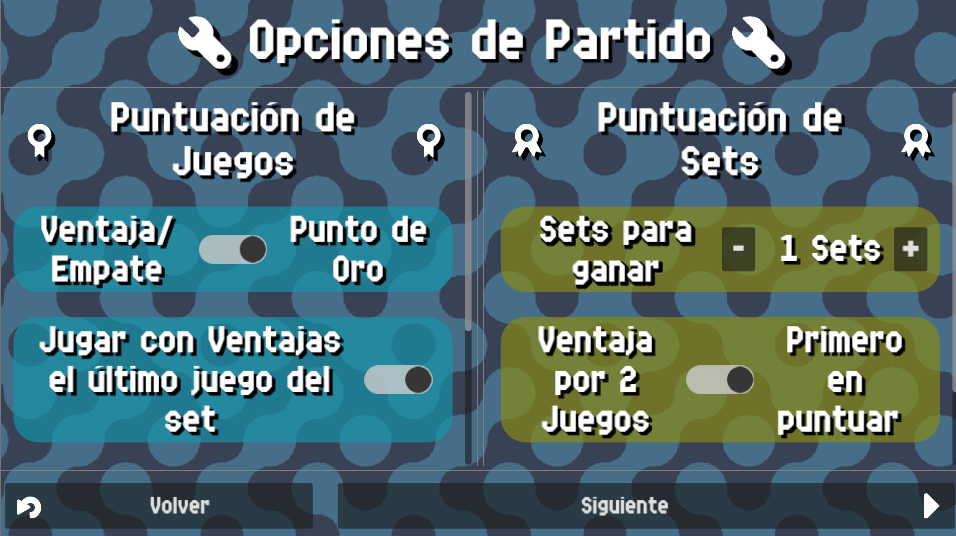
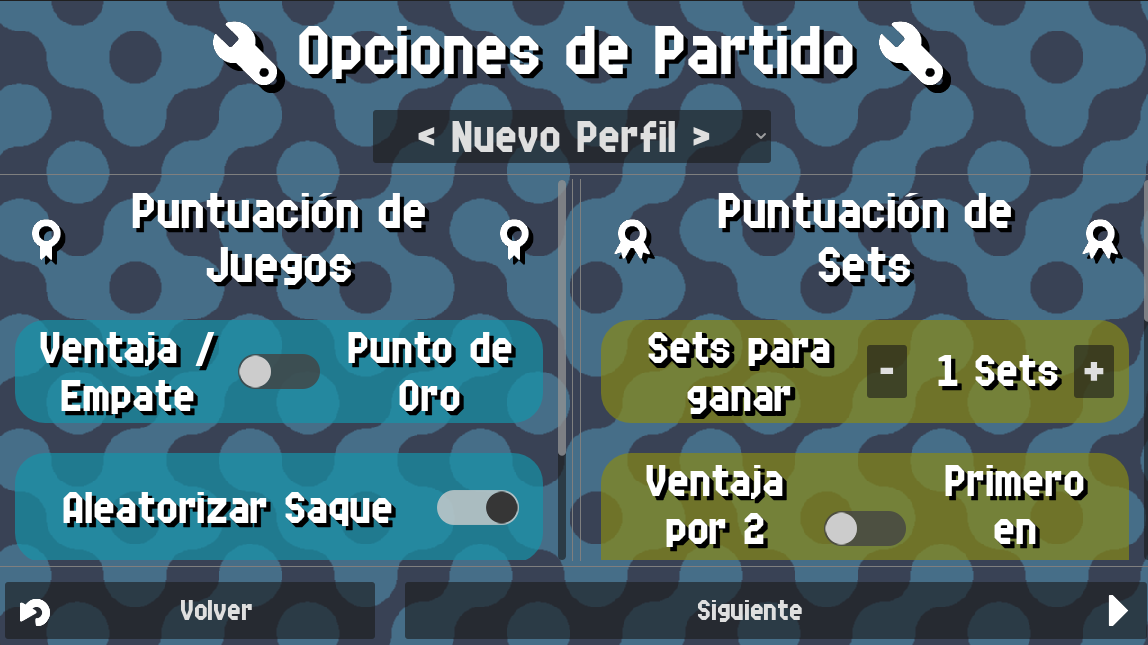
Updated to 1.5.0

diff --git a/docs/index.md b/docs/index.md
@@ -14,11 +14,17 @@ Puedes **cambiar de idioma** en el selector de idioma (language) en **la barra d
 - [Ajustes](./settings/index.md)
 - [Ayuda/Informar de un problema](./help.md)
 
+## Actualizaciones futuras
+
+En este enlace se encuentra [el tablero de Trello](https://trello.com/b/eJKpHkLC/padel-counter-roadmap) (en inglés) en el que podrás ver lo que se viene en futuras actualizaciones de la app!
+
 ## Apoya el proyecto
 
 Contador Pádel es una aplicación gratuita, pero si quieres apoyar el proyecto de alguna forma, puedes donar la cantidad que quieras en mi perfil de Ko-Fi.
 
 [Clic aquí para ir a mi perfil de Ko-Fi.](https://ko-fi.com/rabidrabid)
+
+[¡También puedes donar por PayPal si lo prefieres!](https://www.paypal.com/donate/?hosted_button_id=XEDL2KNTM34SE&locale.x=es_ES)
 
 ## Créditos
 
@@ -32,9 +38,9 @@ Contador Pádel es una aplicación gratuita, pero si quieres apoyar el proyecto 
 - [Shader de fondo en movimiento](https://www.youtube.com/watch?v=cObwzagwgmA) - hecho por [Bacon and Games](https://www.youtube.com/@baconandgames)
 - [Shader de llamas](https://www.youtube.com/watch?v=sCIr_58NN48) - hecho por [Heartbeast](https://www.youtube.com/@uheartbeast)
 - Para los sonidos extra de ejemplo se usaron los siguientes sonidos:
-    - [Video Game Cheerful Ending](https://opengameart.org/content/video-game-cheerful-ending)
-    - [Fireworks With Applause Happy People](https://opengameart.org/content/fireworks-with-applause-happy-people)
-    - [Pure Aluminum Warfare Bunker Day 28](https://opengameart.org/content/pure-aluminum-warfare-bunker-day-28)
-    - [Stick to it Day 17](https://opengameart.org/content/stick-to-it-day-17)
-    - [Kenney Music Jingles](https://kenney.nl/assets/music-jingles)
+  - [Video Game Cheerful Ending](https://opengameart.org/content/video-game-cheerful-ending)
+  - [Fireworks With Applause Happy People](https://opengameart.org/content/fireworks-with-applause-happy-people)
+  - [Pure Aluminum Warfare Bunker Day 28](https://opengameart.org/content/pure-aluminum-warfare-bunker-day-28)
+  - [Stick to it Day 17](https://opengameart.org/content/stick-to-it-day-17)
+  - [Kenney Music Jingles](https://kenney.nl/assets/music-jingles)
 - Agradecimientos especiales al equipo y colaboradores de [Godot Engine](https://godotengine.org) por haber hecho el motor en el que se hizo esta app

diff --git a/docs/setup.md b/docs/setup.md
@@ -1,6 +1,7 @@
 # Configuración Recomendada
 
 ## Resumen
+
 Esta app se puede usar en cualquier dispositivo Android, y como tal, realmente solo necesitas uno para usarla.
 
 Sin embargo, para poder usarla de forma cómoda durante el partido, la mejor configuración es aquella que
@@ -18,7 +19,10 @@ Debido a esto, te recomiendo el siguiente equipo.
 4. Un **mando bluetooth** pequeño. Este mando debe tener algún tipo de entrada de teclado o de gamepad.
   Este de aquí es un ejemplo, pero cualquiera puede servir. Lo ideal es que sea lo más pequeño posible para que te quepa en el bolsillo.
   ![Bluetooth Gamepad Example](./assets/controller.png "Bluetooth Gamepad Example"){: style="display:block;margin-left:auto;margin-right:auto;width:25%;padding-top:10px;padding-bottom:10px;"}
-  Hay algunos que venden que se usan para hacer fotos con el móvil a distancia, **estos no está garantizado que vayan a funcionar**, porque normalmente la entrada que envían es equivalente a subir/bajar volumen en tu dispositivo, y eso no se puede usar como entrada. (Ejemplo de un dispositivo que **no funciona** aquí abajo)
+  ![Bluetooth Gamepad Example 2](./assets/8bitdogamepad.jpg "Bluetooth Gamepad Example 2"){: style="display:block;margin-left:auto;margin-right:auto;width:25%;padding-top:10px;padding-bottom:10px;"}
+  Hay algunos que venden que se usan para hacer fotos con el móvil a distancia, **estos no está garantizado que vayan a funcionar**, porque normalmente la entrada que envían es equivalente a subir/bajar volumen en tu dispositivo, y eso no se puede usar como entrada.
+  
+  (Ejemplo de un dispositivo que **no funciona** aquí abajo)
   ![Android Camera Shutter](./assets/camerashutter.png "Android Camera Shutter"){: style="display:block;margin-left:auto;margin-right:auto;width:20%;padding-top:10px;padding-bottom:10px;"}
   Para estar seguro al 100%, asegúrate de que la entrada enviada por el dispositivo sea de teclado o de gamepad. Si no, puede que no funcione.
 

diff --git a/docs/counter/teams.md b/docs/counter/teams.md
@@ -1,8 +1,10 @@
 # Selección de Equipos
 
-En esta pantalla puedes elegir los equpos que jugarán el partido.
+En esta pantalla puedes elegir a los jugadores que jugarán el partido. Después de elegir a los jugadores,
+se mostrará en pantalla un nombre de equipo y un color para los jugadores, y si no escogiste ningún jugador
+por defecto, serán editables.
 
-![Team Select](../assets/teamselect.png "Team Select"){: style="display:block;margin-left:auto;margin-right:auto;width:60%;padding-top:10px;padding-bottom:10px;"}
+![Team Select](../assets/playerteams.png "Team Select"){: style="display:block;margin-left:auto;margin-right:auto;width:60%;padding-top:10px;padding-bottom:10px;"}
 
 Los nombres de los equipos se mostrarán en la pantalla principal del contador, junto a la puntuación.
 
@@ -11,5 +13,3 @@ Los nombres de los equipos se mostrarán en la pantalla principal del contador, 
 Los nombres de los jugadores se usarán para mostrar quién saca en el juego actual.
 
 ![Service](../assets/service.png "Service"){: style="display:block;margin-left:auto;margin-right:auto;width:60%;padding-top:10px;padding-bottom:10px;"}
-
-El resto de este menú se explica en más detalle en la página de [Ajustes de Equipos](../settings/teams.md).

diff --git a/docs/counter/match.md b/docs/counter/match.md
@@ -1,8 +1,11 @@
 # Opciones de Partido
 
-En la pantalla de `Opciones de Partido` encontrarás los siguientes ajustes.
+En la pantalla de `Opciones de Partido` puedes editar los ajustes del partido. También puedes 
+guardar la configuración como un perfil para usarla en el futuro.
 
 ![MatchSettings](../assets/matchsettings.png "MatchSettings"){: style="display:block;margin-left:auto;margin-right:auto;width:60%;padding-top:10px;padding-bottom:10px;"}
+
+En esta pantalla encontrarás los siguientes ajustes.
 
 ## Opciones de Puntuación de Juegos
 

diff --git a/docs/settings/index.md b/docs/settings/index.md
@@ -1,6 +1,5 @@
 # Ajustes
 
 - [Ajustes Generales](./general.md)
-- [Ajustes de Equipos](./teams.md)
 - [Controles](./controls.md)
 - [Sonidos Extra](./custom_sounds.md)
